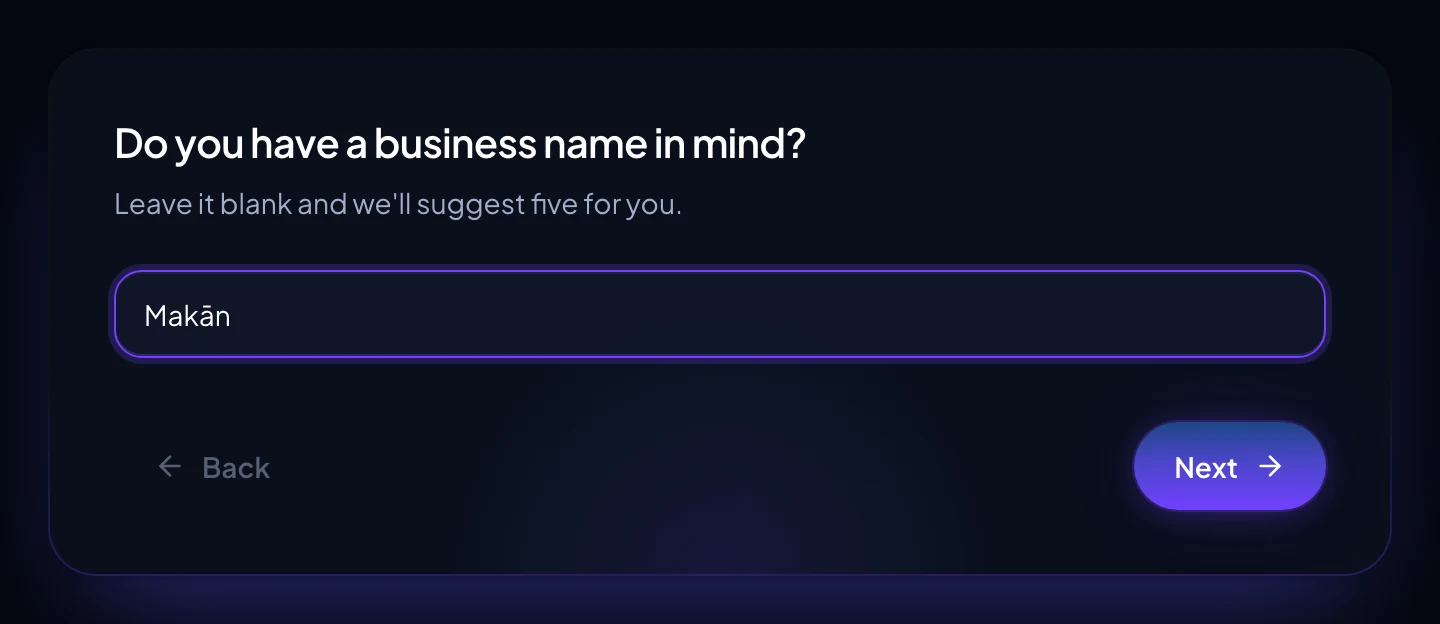
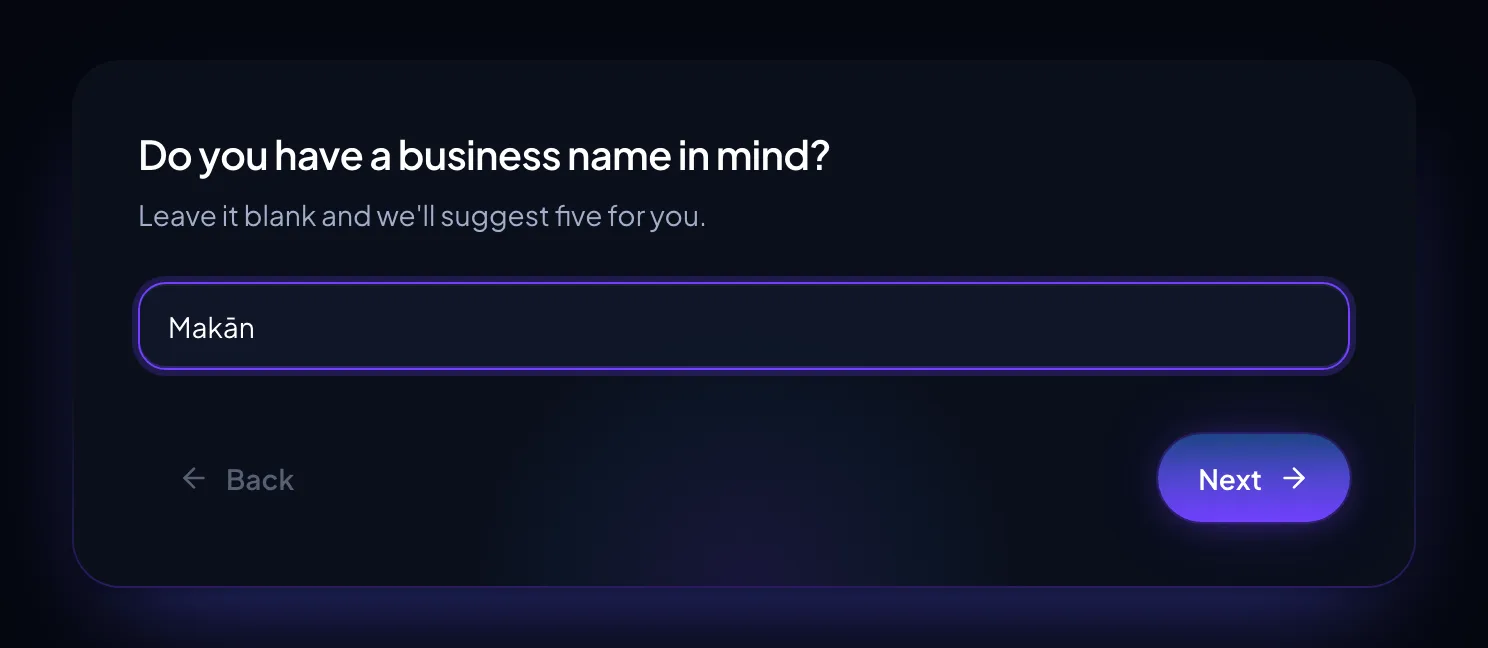
Photograph the brief in both languages the product writes
The last commit shipped this plate knowing two things about it were wrong, and
named them: the shot was the old capture at 1440x624, and `/ar` served the same
English wizard as `/en`. On the page whose entire proof is that this product
writes Arabic natively, the one picture of the product was in English. A reader
on the Arabic edition sees the product speaking their language in every element
except the photograph of the product.

So there are two captures now, taken from the running wizard at the same step,
one with the brief typed in English and one mirrored with it typed in Arabic.
Both at device pixel ratio 2, so the plate is a print of the screen rather than
an upscale of one: 1488x648, and the intrinsic pair on the element moves with
them, since a stale pair there stretches the picture instead of failing.

The violet chrome is not fixed, because it is not a defect. `:root` is still the
dark navy world and only the marketing pages moved to paper, so the app behind
the login genuinely looks like this today; recolouring the capture would be a
photograph of a product that does not exist. The plate's note now frames it as
what it is, a screen, printed.

diff --git a/src/app/[locale]/page.tsx b/src/app/[locale]/page.tsx
@@ -306,23 +306,33 @@ export default async function BrandBook({
             {/*
               The brief, as a plate with a caption under it.
 
-              Two things about this picture are still wrong and neither is
-              fixable here: it is full of the product's old violet chrome, and it
-              is in English on `/ar`, on the page whose proof is that this
-              product writes Arabic natively. Both need a fresh capture of the
-              running app, which is a separate job from setting this page.
+              Two captures, not one. The page's whole argument is that this
+              product writes Arabic natively, and a screenshot of an English
+              wizard sitting inside the Arabic edition of the book was the
+              loudest possible contradiction of it: the reader is looking at the
+              product speaking their language everywhere except in the picture
+              of the product. The Arabic capture is the same step of the same
+              wizard, mirrored, with the name typed in Arabic.
+
+              The violet chrome stays, and it is not a defect. That is what the
+              app behind the login actually looks like (`:root` is still the
+              dark navy world, and only the marketing pages moved to paper), so a
+              recolour here would be a photograph of a product that does not
+              exist. The plate frames it as what it is: a screen, printed.
             */}
             <SectionReveal delay={0.1} className="lg:sticky lg:top-24">
               <figure>
                 <div className="plate overflow-hidden bg-elevated p-2">
                   <Image
-                    src="/marketing/run-brief.webp"
+                    src={locale === 'ar' ? '/marketing/run-brief-ar.webp' : '/marketing/run-brief.webp'}
                     alt={t('howShot')}
                     /* The capture's own pixel dimensions. `w-full` with no height
                        class takes its aspect from these, so a stale pair here
-                       stretches the screenshot rather than failing loudly. */
-                    width={1440}
-                    height={624}
+                       stretches the screenshot rather than failing loudly. Both
+                       locales are captured from the same clip, so one pair
+                       serves both. */
+                    width={1488}
+                    height={648}
                     className="w-full rounded-[0.0625rem]"
                     sizes="(max-width: 1024px) 100vw, 420px"
                   />
